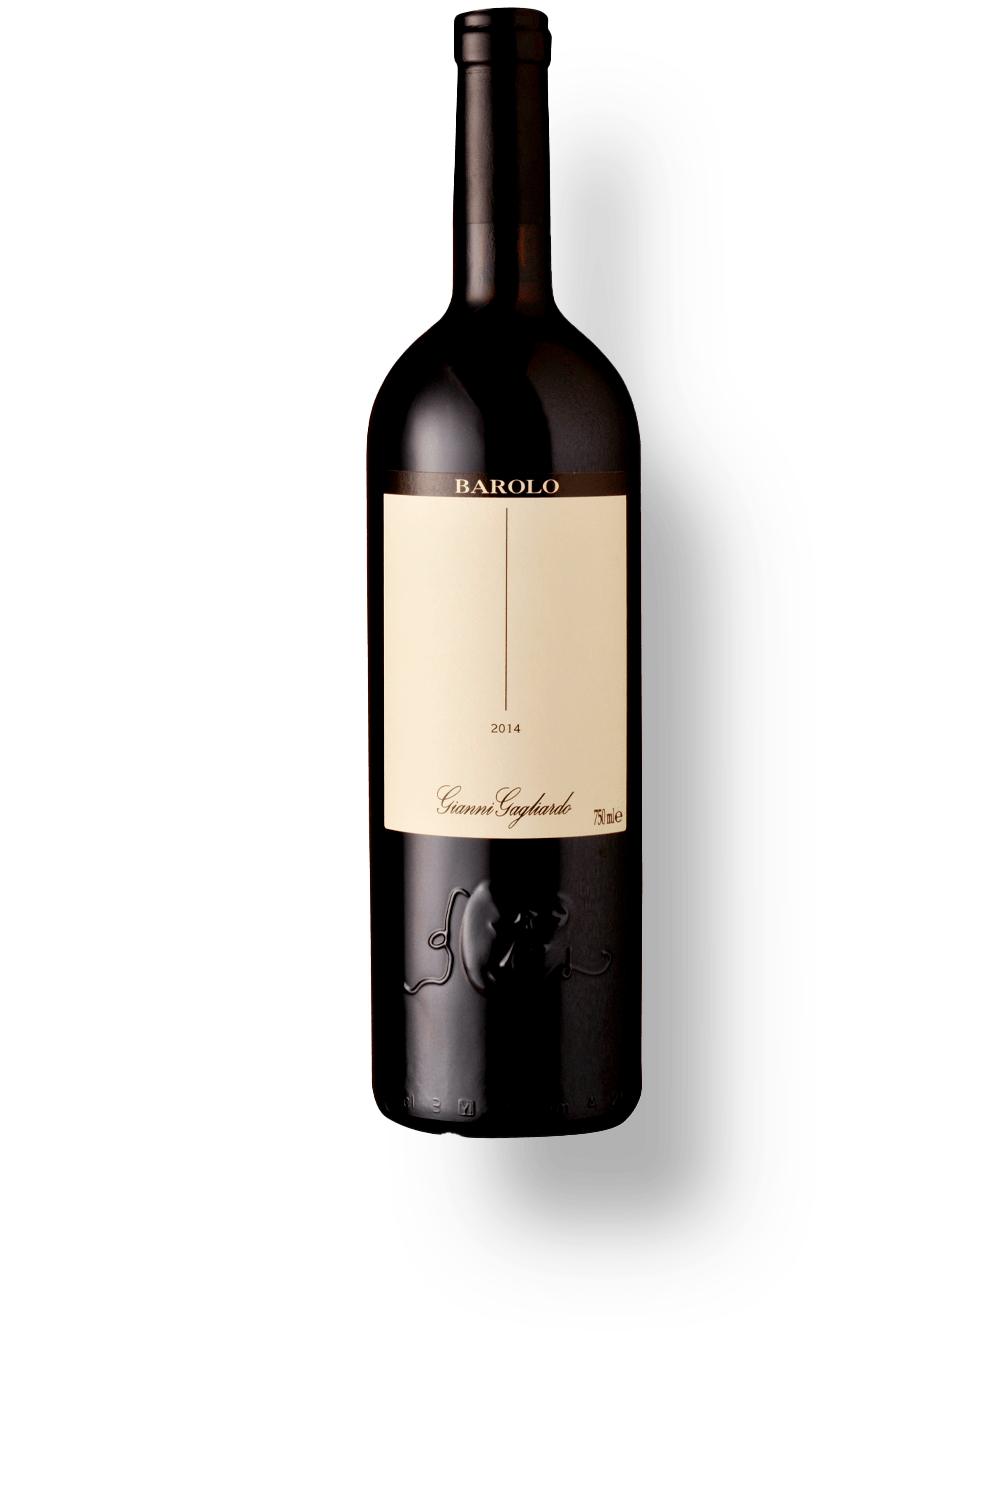
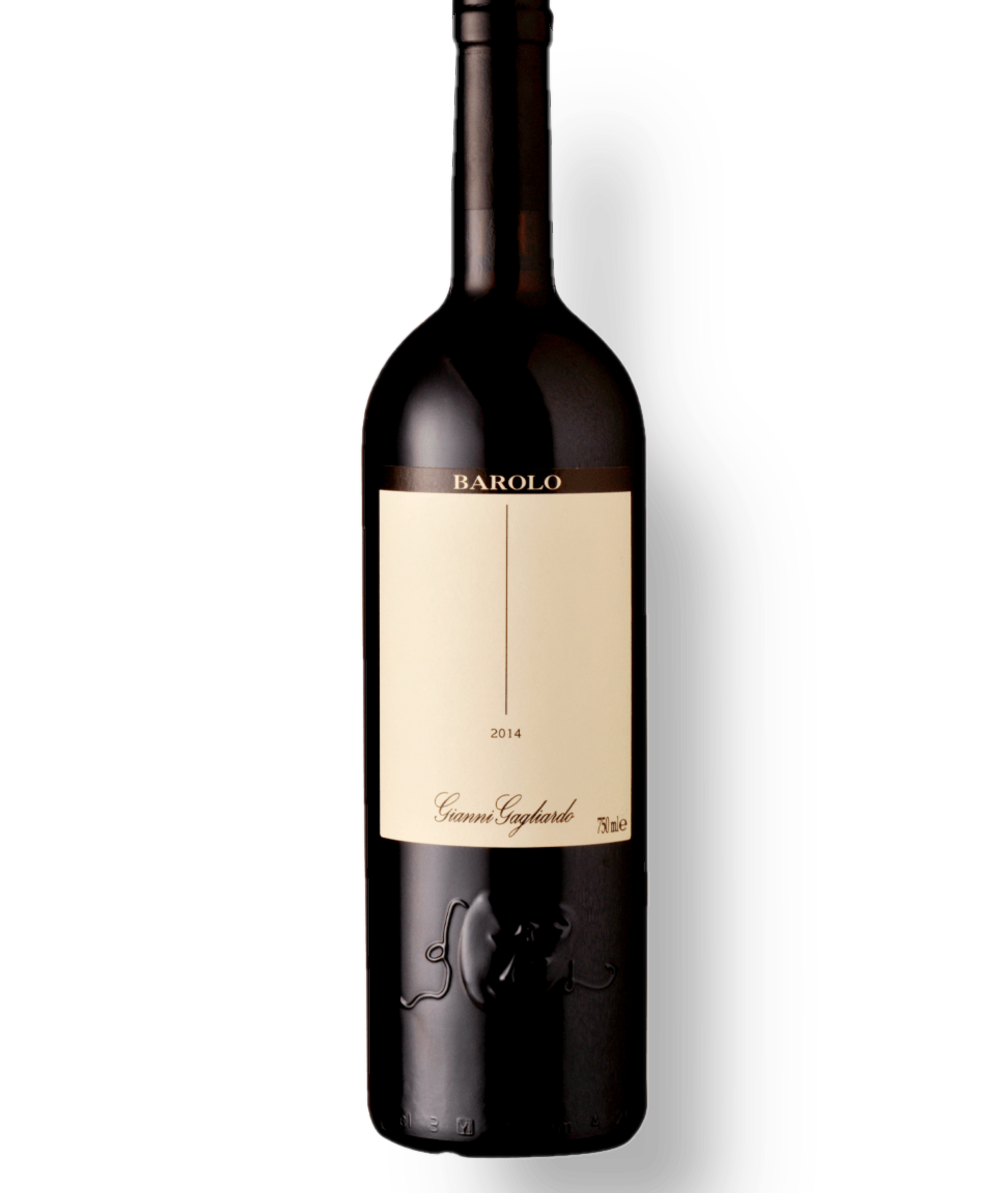
adjusting images and margin

Changed region(s): [[0.341, 0.0, 0.744, 1.0]]

diff --git a/produtos.html b/produtos.html
@@ -47,40 +47,35 @@
     </li>
 
     <li>
-      <h2>Casilero Del Diablo Reserva Cabernet Sauvignon 2019 750ml</h2>
-      <img class="wineimg" src="./img/wine/Casilero Del Diablo Reserva Cabernet Sauvignon.jpg" width="400px" height="400px">
-      <p class="product-price">R$:40 reais</p>
-    </li>
-
-    <li>
       <h2>Cabernet Sauvignon 2014 750ml</h2>
-      <img class="wineimg" src="./img/wine/Cabernet Sauvignon 2014 750ml.jpg" width="150px" height="420px">
+      <img class="wineimg" src="./img/wine/Cabernet Sauvignon 2014 750ml.PNG" width="150px" height="450px">
       <p class="product-price">R$:780,00</p>
     </li>
 
     <li>
       <h2>Baron Guillot Classique Esprit de Vigneron 2019 750ml</h2>
-      <img class="wineimg" src="./img/wine/Baron Guillot Classique Esprit de Vigneron 2019.png" width="100px" height="400px">
+      <img class="wineimg" src="./img/wine/Baron Guillot Classique Esprit de Vigneron 2019.png" width="100px" height="420px">
       <p class="product-price">R$:31,00</p>
     </li>
 
     <li>
       <h2>Barolo DOCG 2014 750ml</h2>
-      <img class="wineimg" src="./img/wine/Barolo DOCG 2014.png" width="300px" height="400px">
+      <img class="wineimg" id="barolo" src="./img/wine/Barolo DOCG 2014.PNG" width="350px" height="450px">
       <p class="product-price">R$:700,00</p>
     </li>
 
     <li>
+      <h2>Vinho Francês LOUIS LATOUR Bourgogne Pinot Noir 2018 750ml</h2>
+      <img class="wineimg" src="./img/wine/Vinho Francês LOUIS LATOUR Bourgogne Pinot Noir 2018 750ml.PNG" width="300px" height="420px">
+      <p class="product-price">R$:270,00</p>
+    </li>
+
+    <li>
       <h2>Vinho Argentino Tinto Malbec TRES MEDALLAS Garrafa 2013 750ml</h2>
-      <img class="wineimg" src="./img/wine/Vinho Argentino Tinto Malbec TRES MEDALLAS Garrafa 750ml.png" width="400px" height="380px">
+      <img class="wineimg" src="./img/wine/Vinho Argentino Tinto Malbec TRES MEDALLAS Garrafa 750ml.png" width="400px" height="420px">
       <p class="product-price">R$750,00</p>
     <li/>
 
-    <li>
-      <h2>Vinho Francês LOUIS LATOUR Bourgogne Pinot Noir 2018 750ml</h2>
-      <img class="wineimg" src="./img/wine/Vinho Francês LOUIS LATOUR Bourgogne Pinot Noir 750ml 259 reais.jpg" width="300px" height="400px">
-      <p class="product-price">R$:270,00</p>
-    </li>
   </ul>
  </main>
 

diff --git a/product-style.css b/product-style.css
@@ -86,5 +86,10 @@ footer {
   box-sizing: border-box;
   border: 4px solid #FFFFFF;
   border-radius: 10px;
+  font-weight: bold;
+  font-size: 30px;
 }
 
+.wineimg {
+  padding: 50px 0 50px 0;
+}
